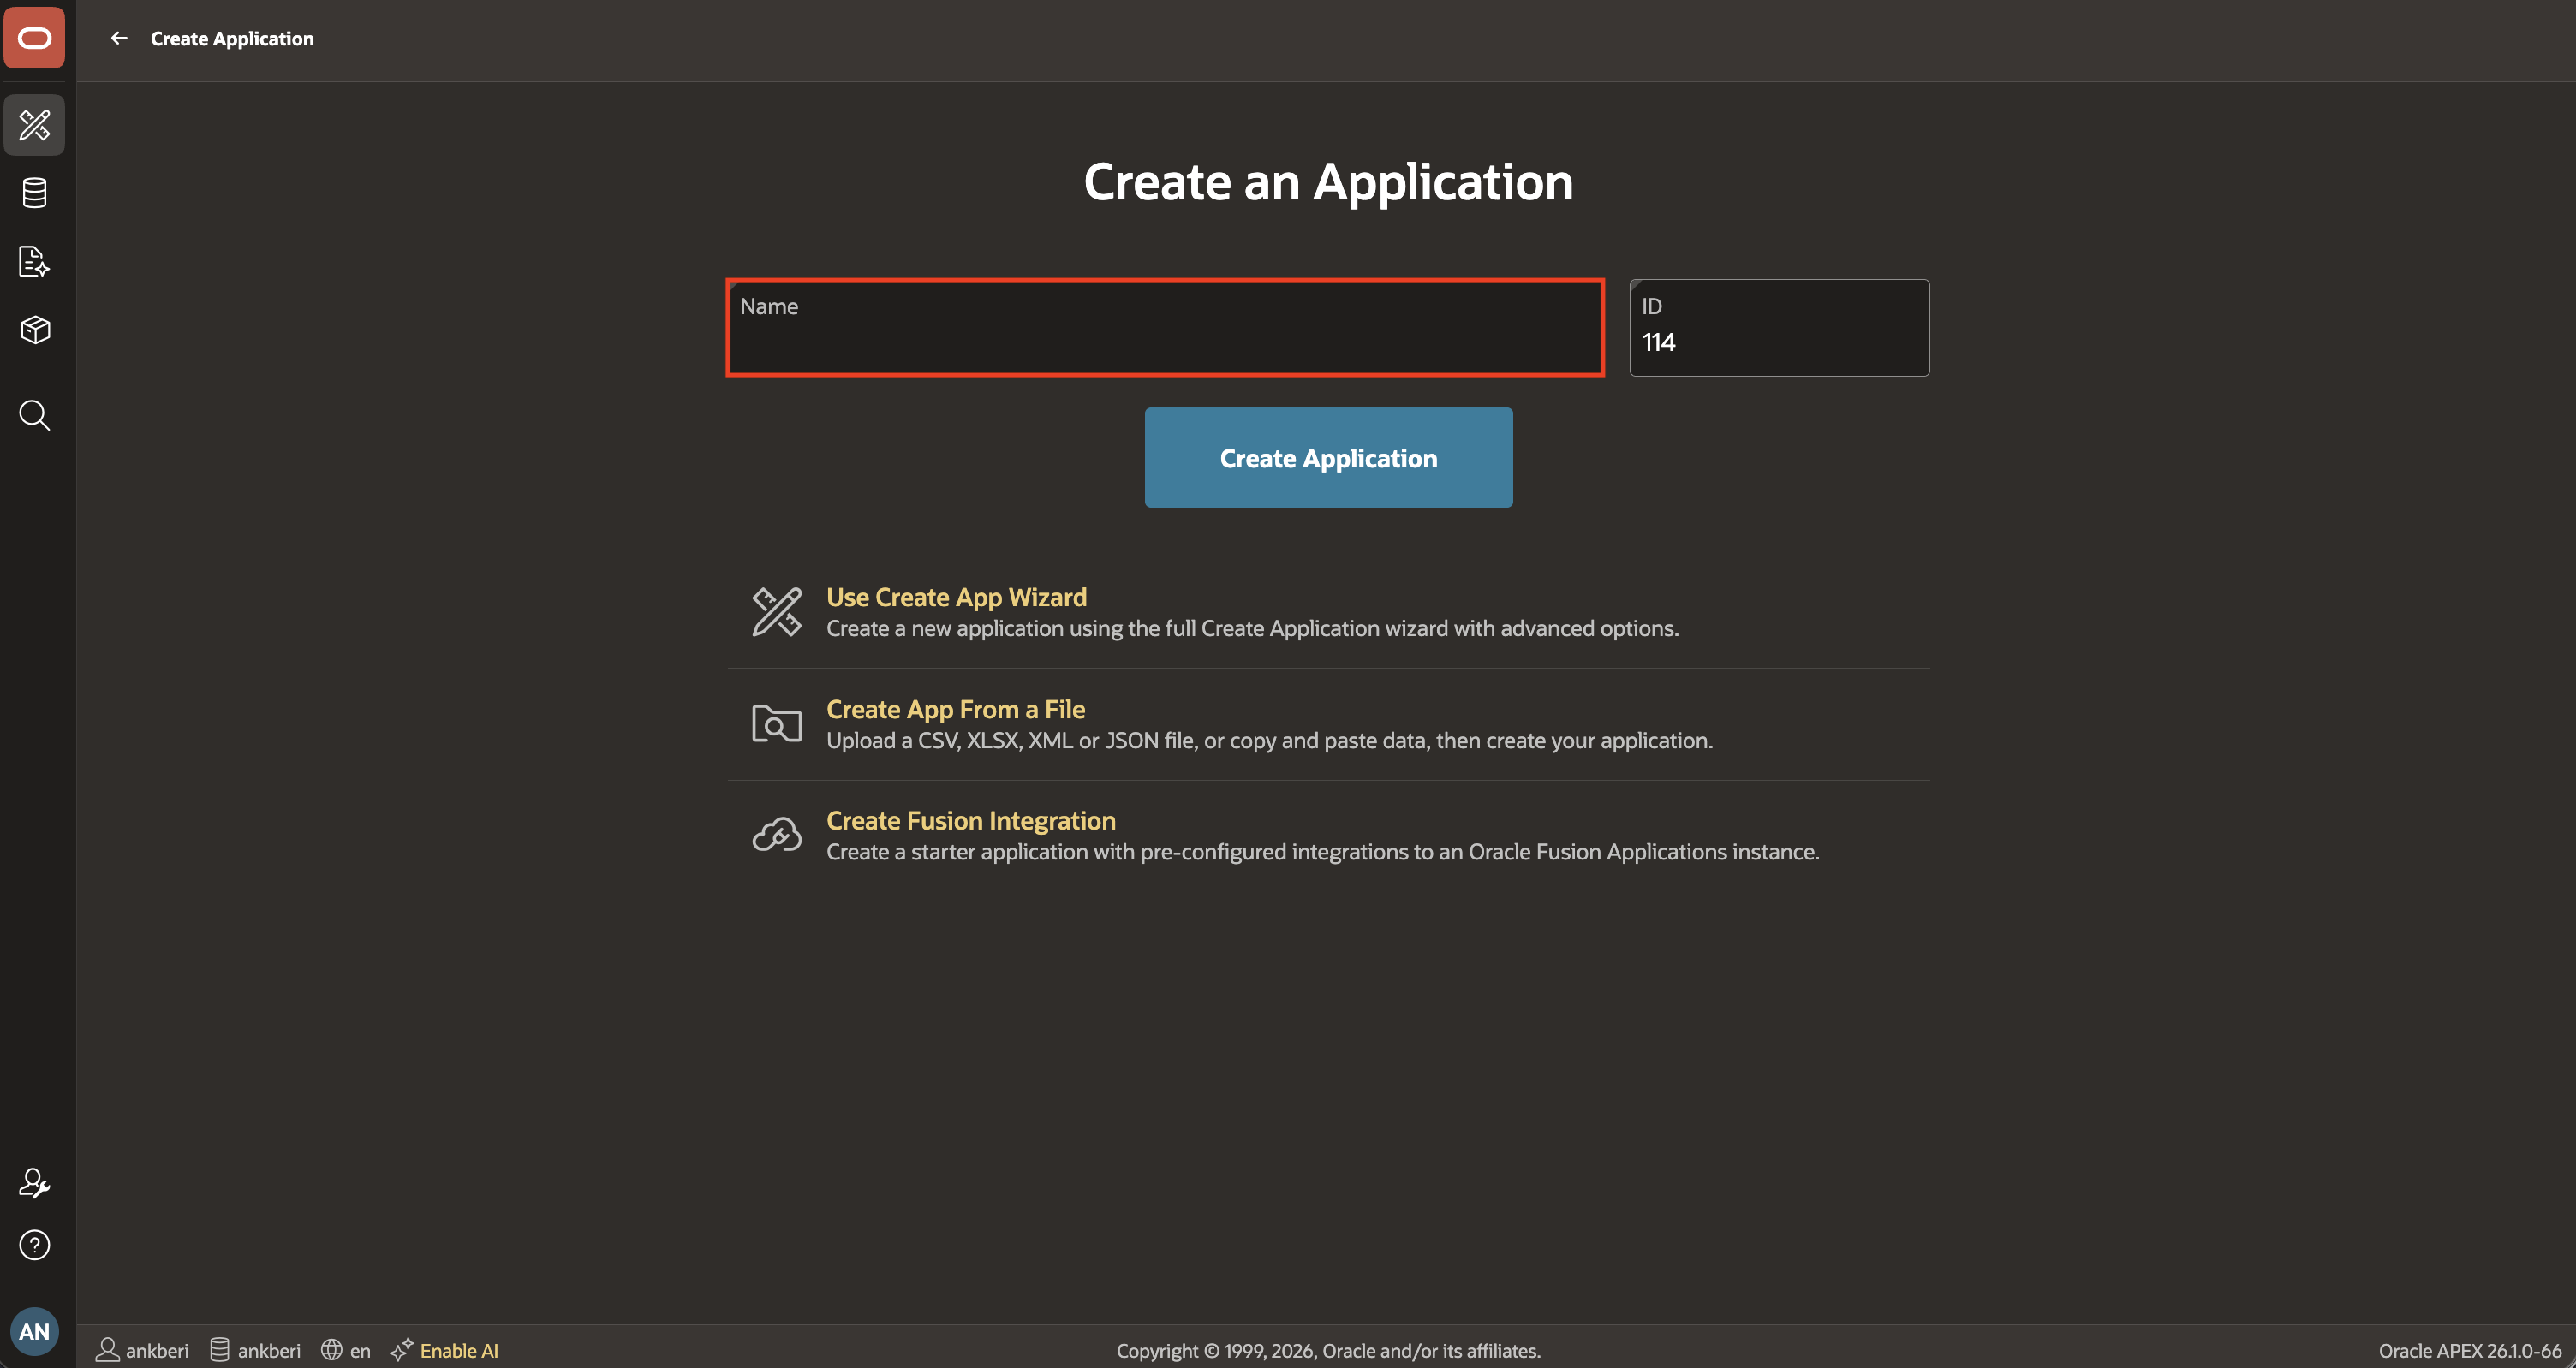
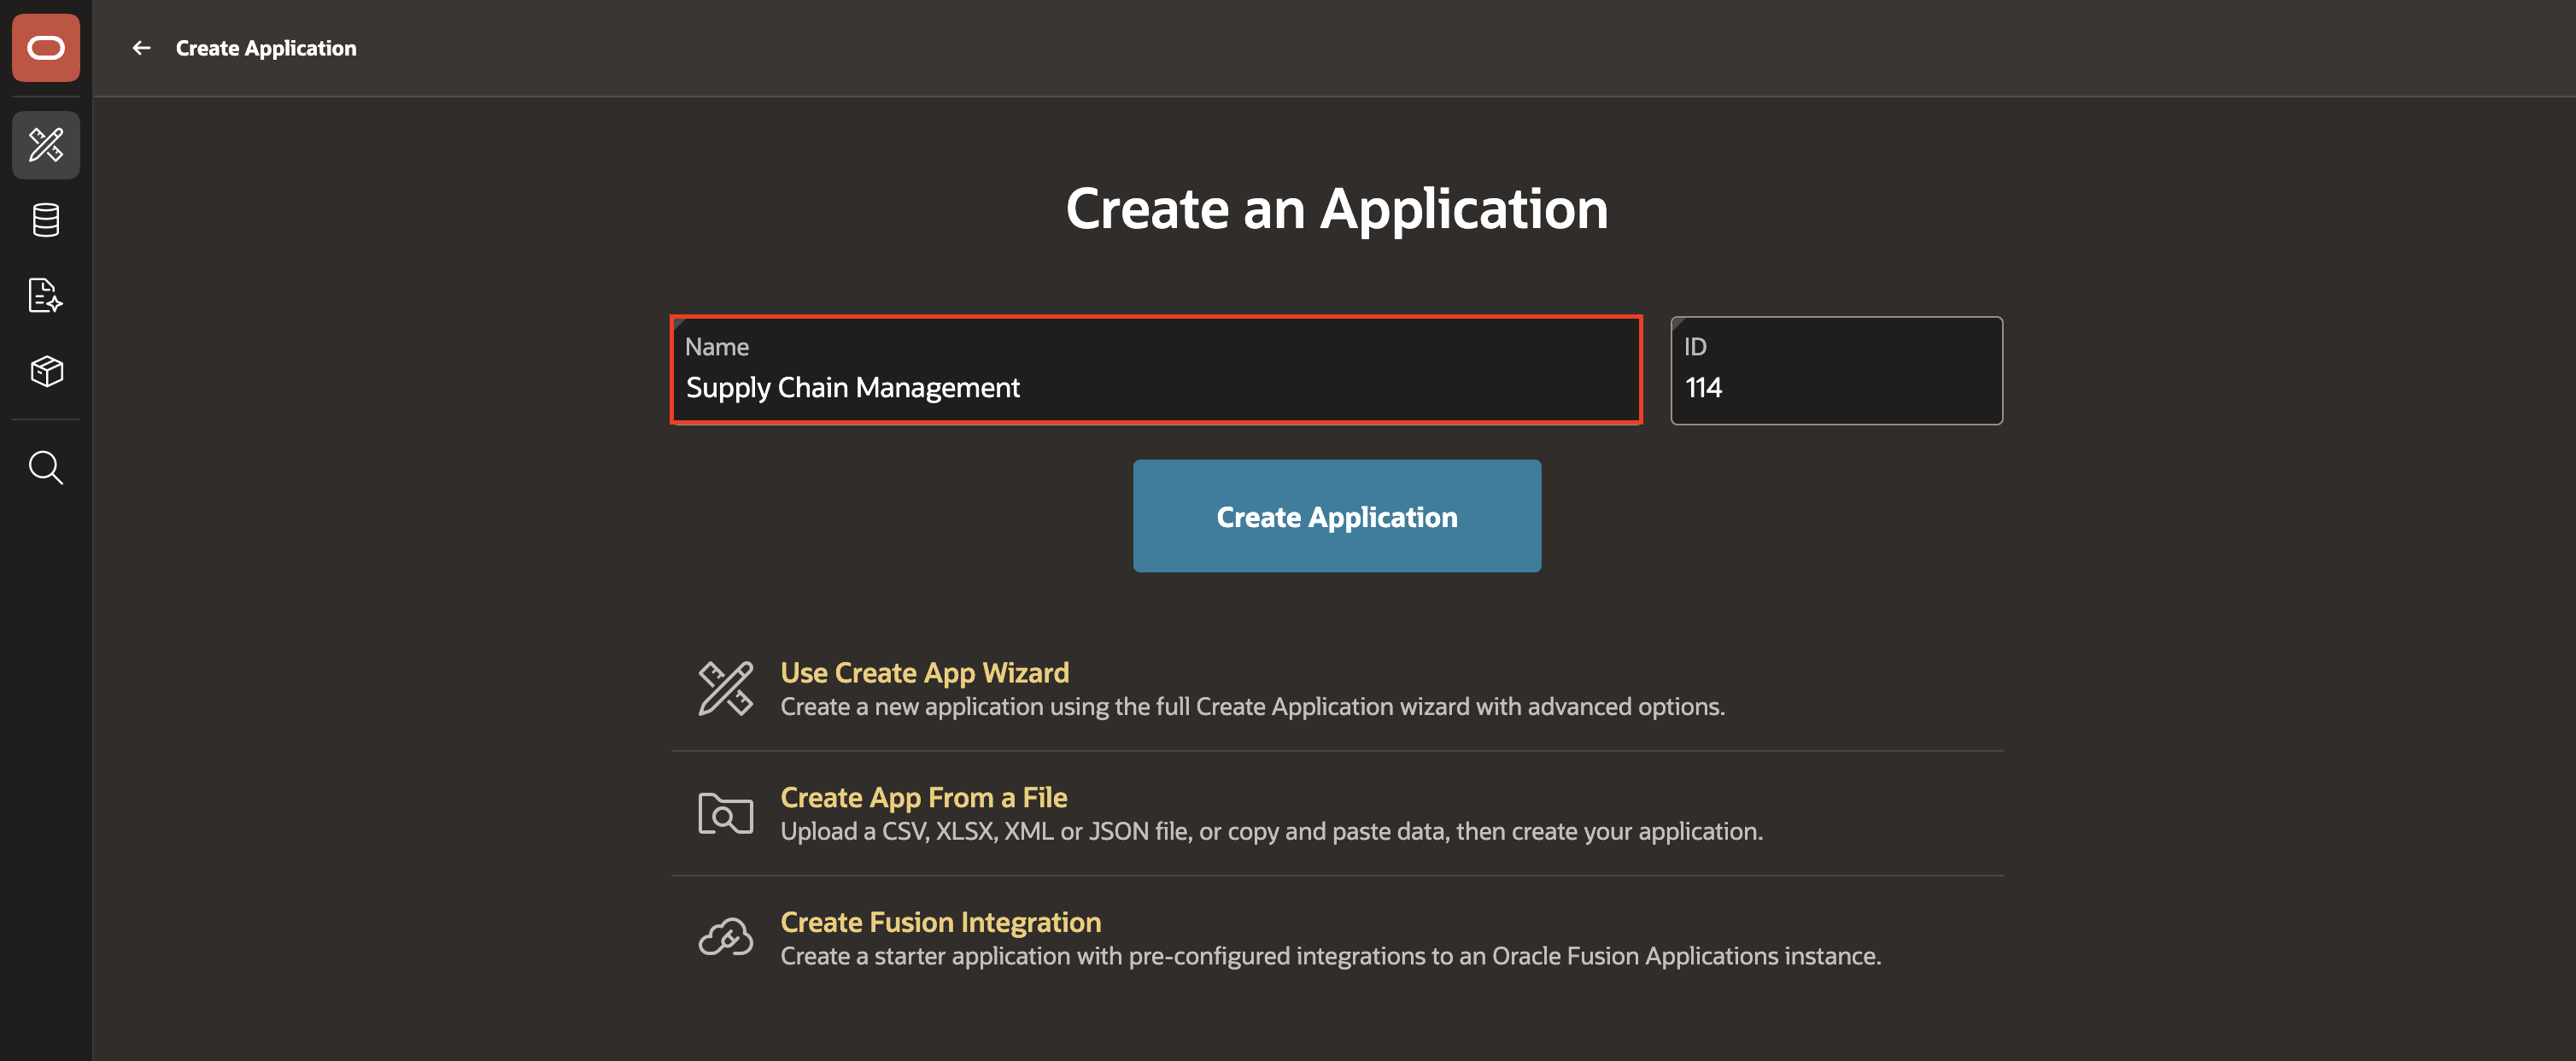
ai-interactive

diff --git a/ai-interactive-report-lab/lab-1-create-a-scm-application/lab-1-create-a-scm-application.md b/ai-interactive-report-lab/lab-1-create-a-scm-application/lab-1-create-a-scm-application.md
@@ -90,7 +90,7 @@ This task creates the application shell that you will enhance throughout the wor
 
     ![Click Create Application](images/get-image.png)
 
-## Task 3: Review the Application Shell and Seeded SCM Objects
+## Task 3: Review the Database Objects
 
 This task gives you context for the rest of the workshop. You will review the application home page created in Task 2 and confirm that the SCM objects needed for replenishment reporting were installed successfully.
 